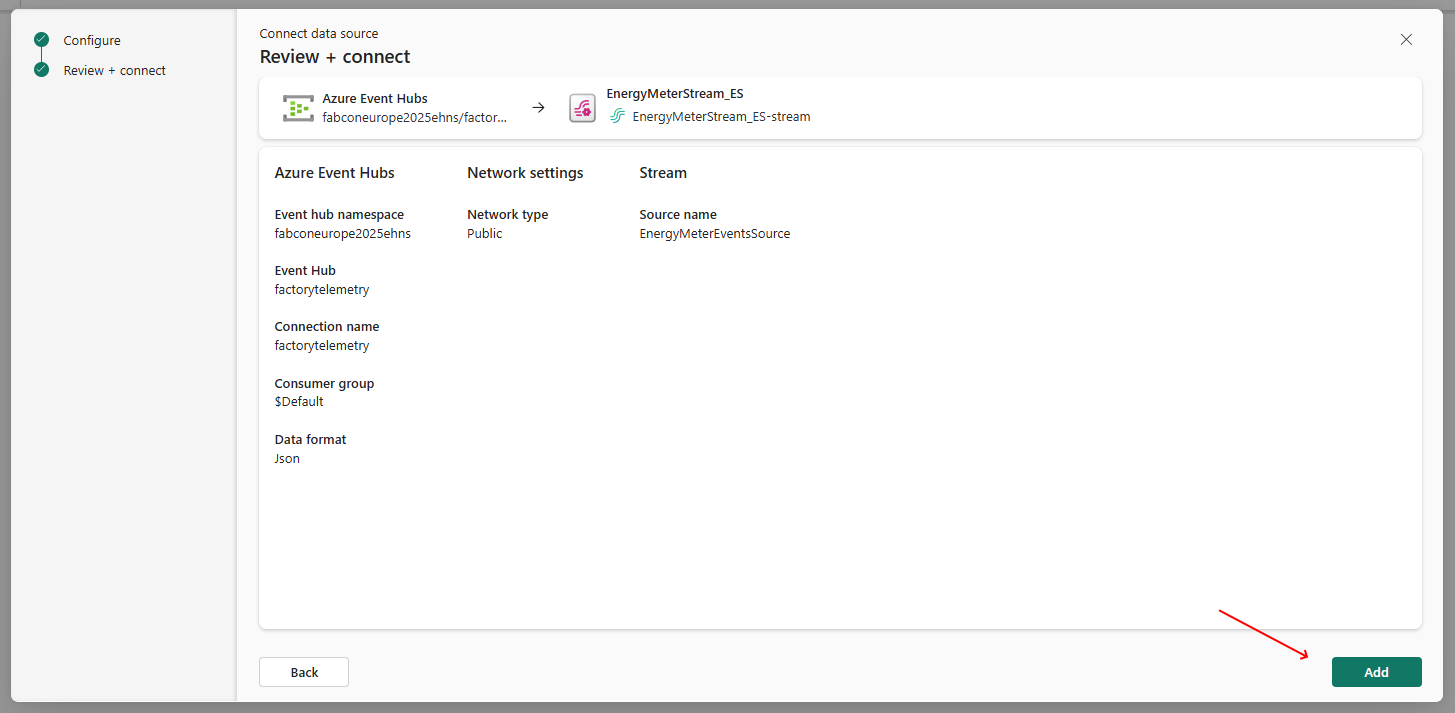
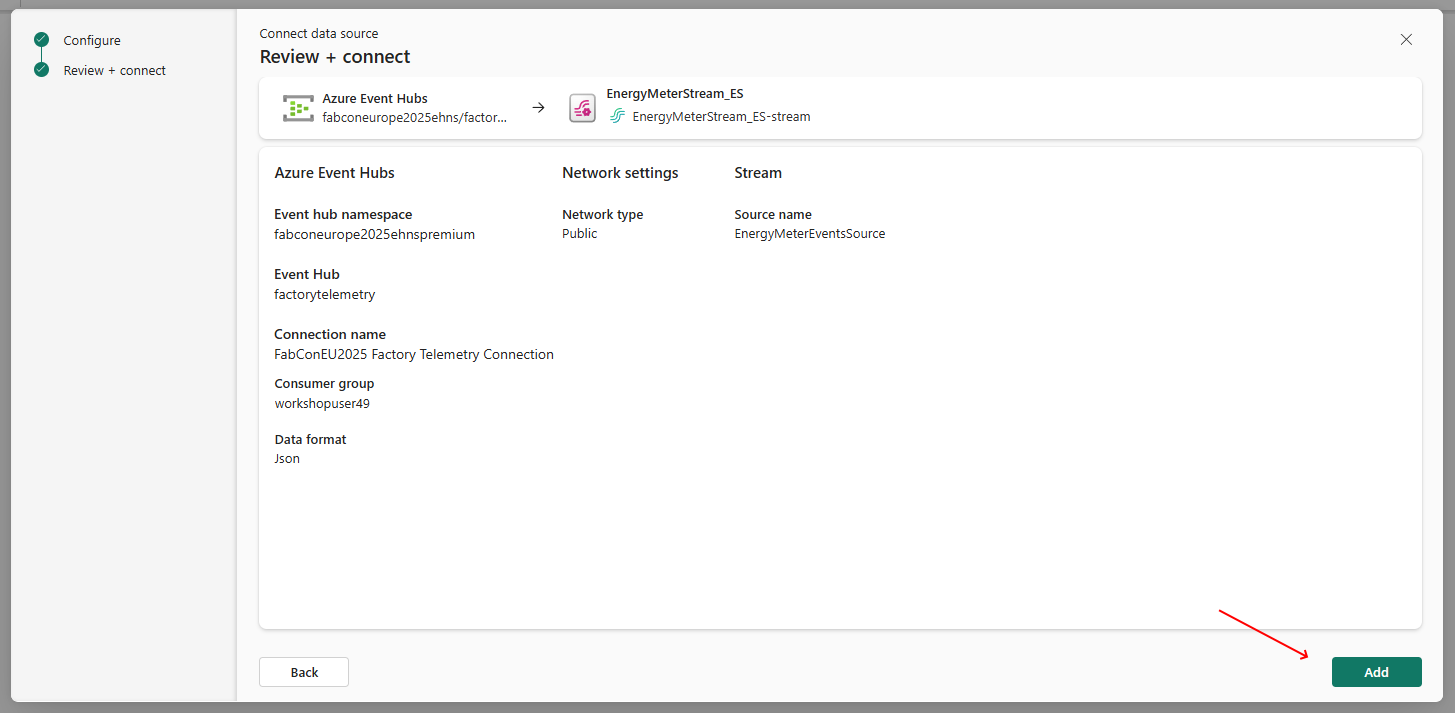
New eventhub for telemetry

diff --git a/docs/workshop.md b/docs/workshop.md
@@ -680,7 +680,7 @@ Notice that the electric motor starts and stops every 15 minutes so you will see
 
 ![alt text](assets/image_task04_step04.png)
 
-3. In the dialog 'Configure connection settings', **Select** `factorytelemetryeventhub` for the combobox 'Connection' and **insert** the name of the consumer group into the field 'Consumer group' that aligns with the username that was provided to you. In this case, this is `workshopuser49`. **Ensure** that the 'Data format' is `Json` and **click on the pencil** icon next to `Source name`.
+3. In the dialog 'Configure connection settings', **Select** `FabConEU2025 Factory Telemetry Connection` for the combobox 'Connection' and **insert** the name of the consumer group into the field 'Consumer group' that aligns with the username that was provided to you. In this case, this is `workshopuser49`. **Ensure** that the 'Data format' is `Json` and **click on the pencil** icon next to `Source name`.
 
 ![alt text](assets/image_task04_step05.png)
 
